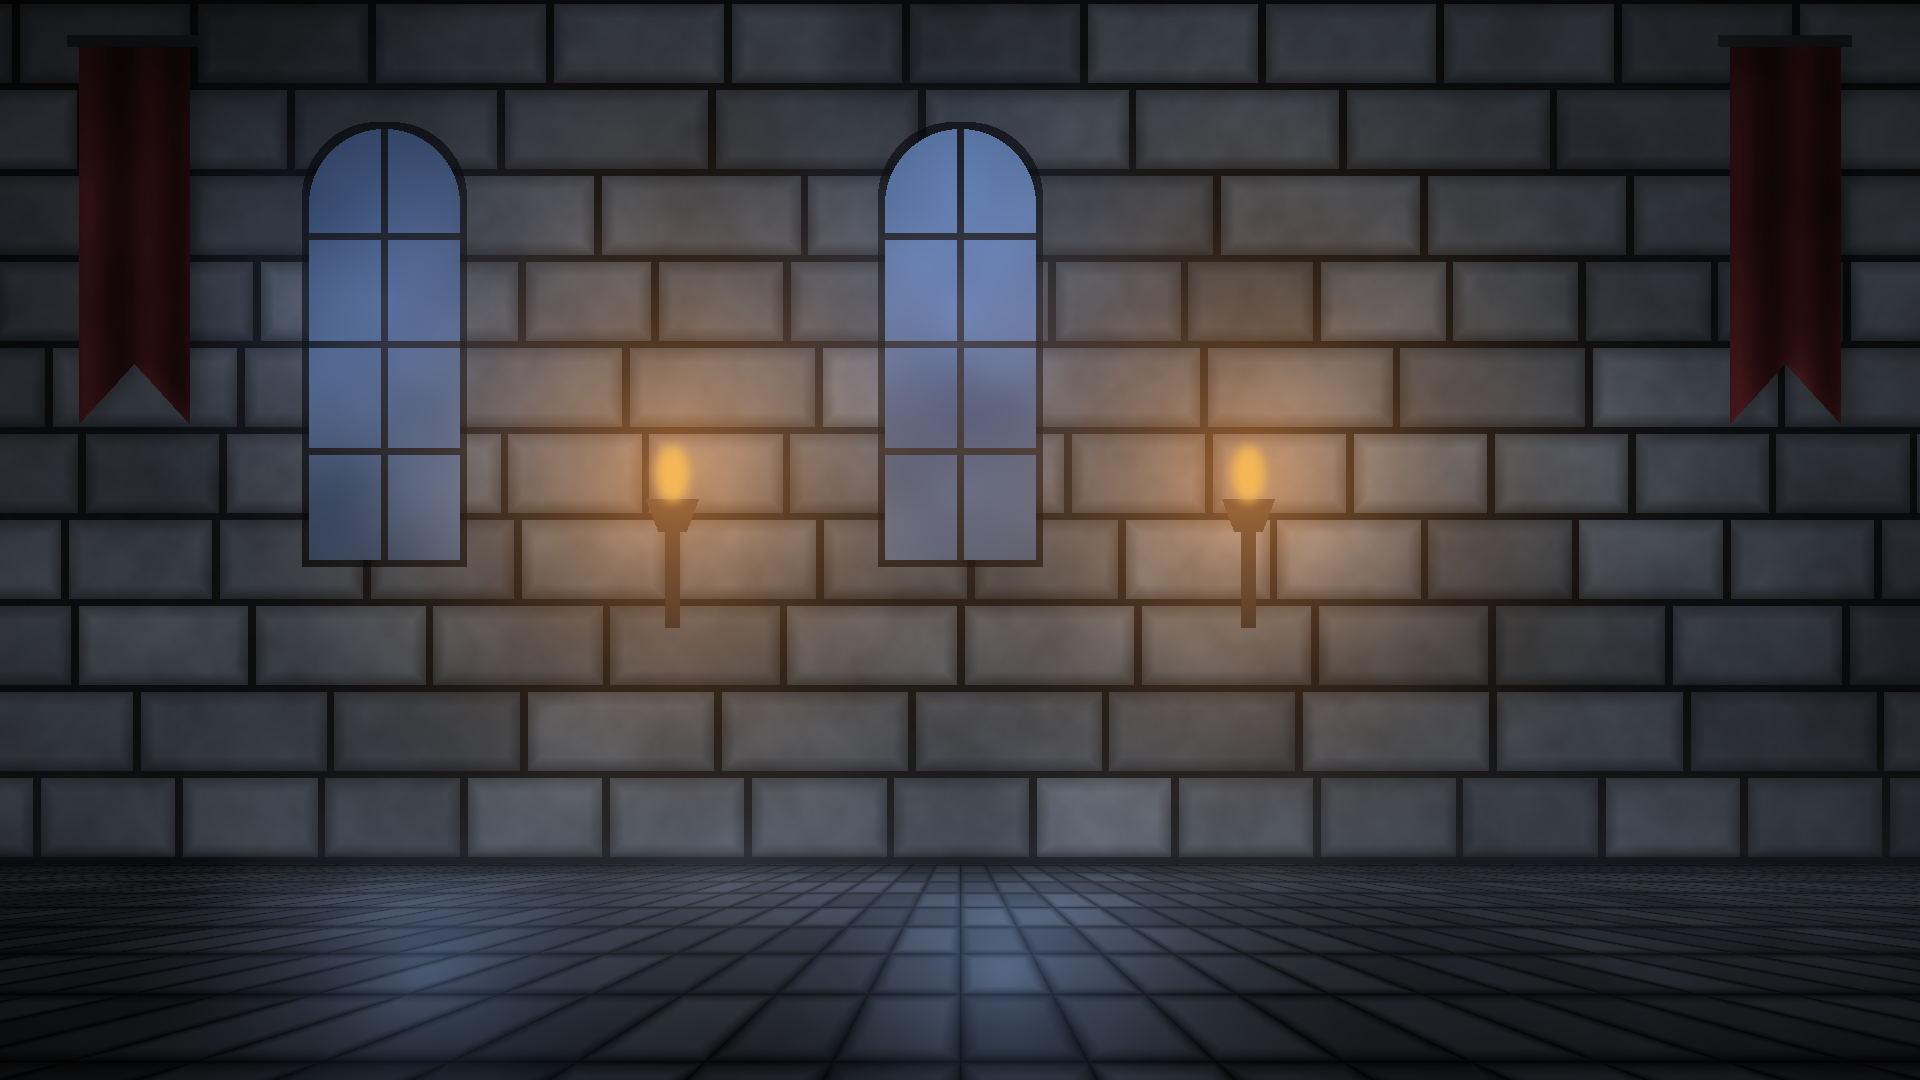
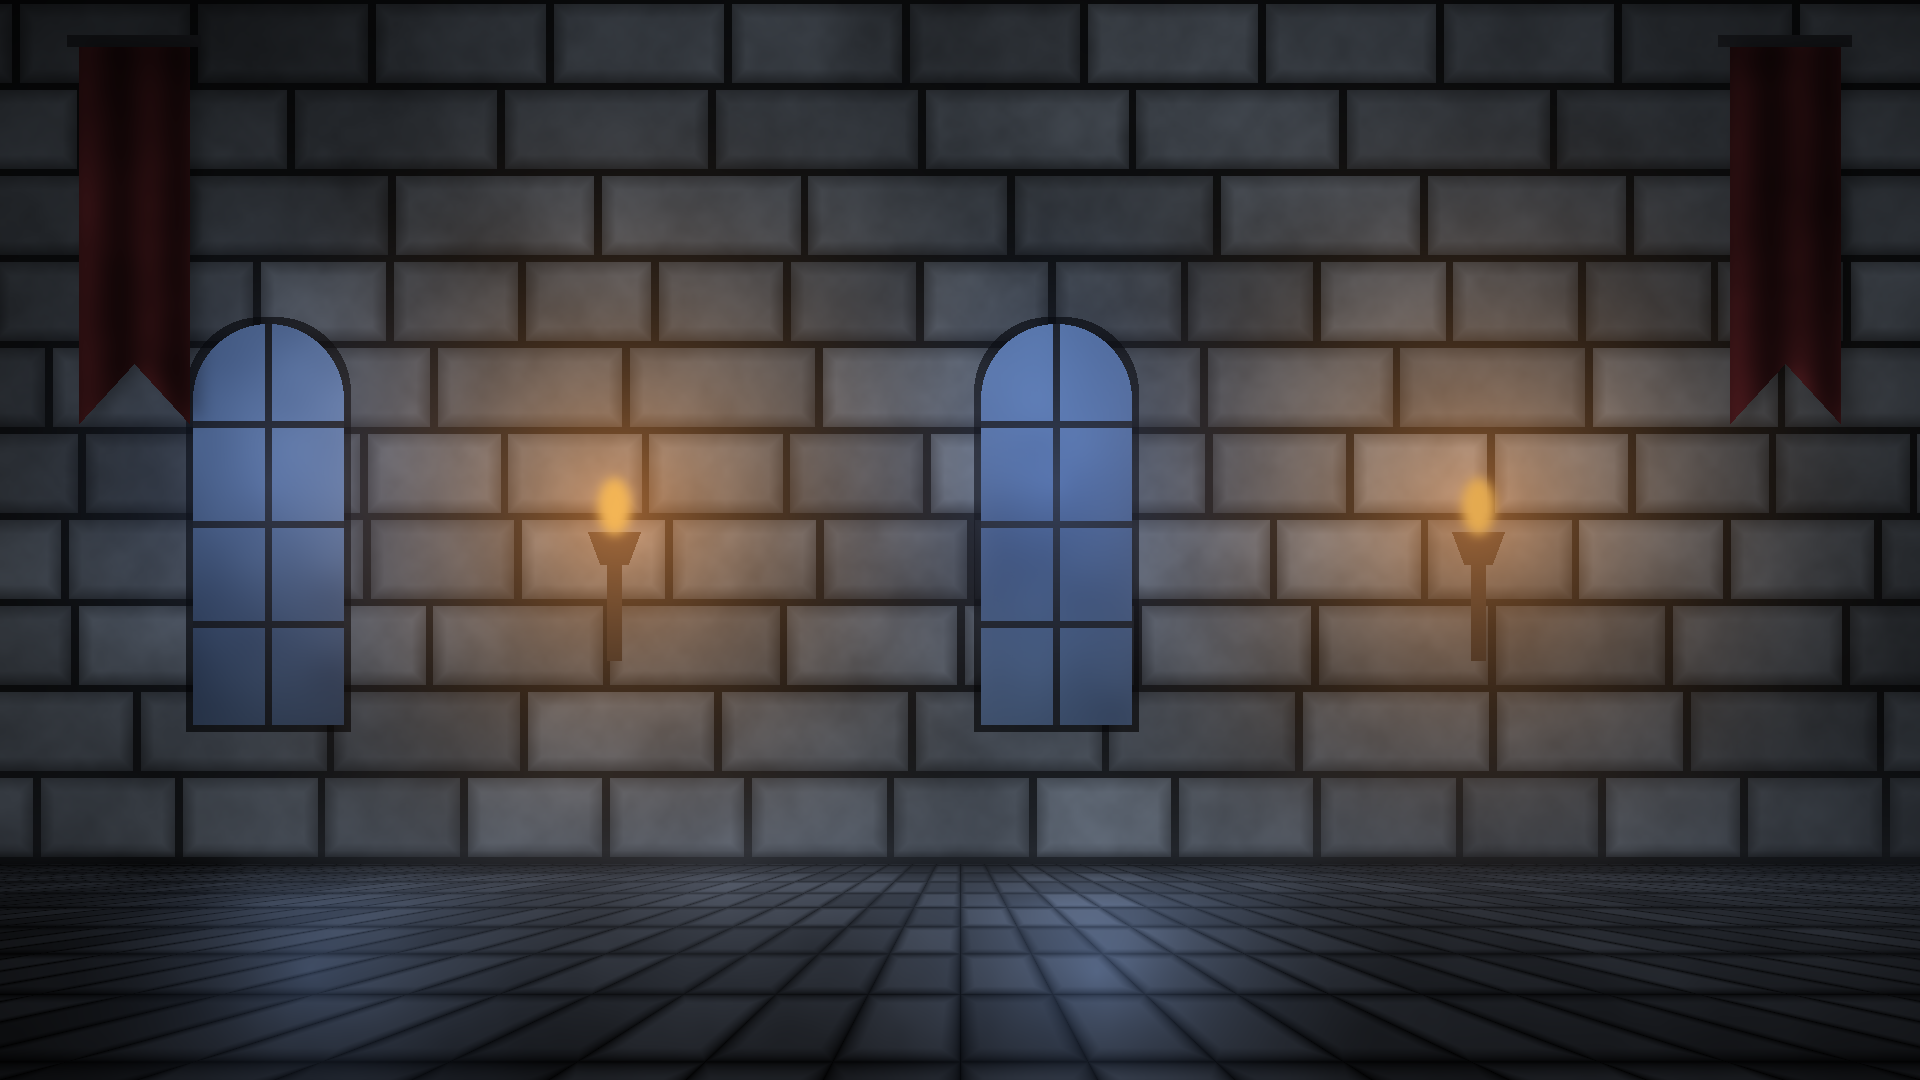
성 테마 시작 화면: 창·횃불을 제목 판 아래로 내리고 메뉴 틀 성가퀴 네모를 작은 쇠 장식으로(축소 때 검은 줄 방지) + 합성 시안 도구

diff --git a/Tools/ui/gen_castle_lobby.py b/Tools/ui/gen_castle_lobby.py
@@ -37,7 +37,7 @@ def menu_frame():
         d = ImageDraw.Draw(band)
         for i in range(8):
             x = 48 + i * 52
-            d.rectangle([x, 54 if not flip else 66, x + 28, 112 if not flip else 124], fill=255)
+            d.ellipse([x + 8, (74 if not flip else 86), x + 24, (90 if not flip else 102)], fill=255)   # 작은 둥근 쇠 장식(성가퀴 네모는 축소 때 검은 줄로 보였다)
         m = np.asarray(band, np.float32) / 255
         if flip: m = m[::-1]
         m = m if not flip else m[::-1][::-1]
@@ -134,9 +134,9 @@ def background(w, h, seed=41):
     base = np.clip(1 - np.abs(yy - floor_y) / (14 * s), 0, 1)[..., None]
     img = img * (1 - 0.6 * base)
     # 아치 창 두 개
-    for cx in (int(w * 0.20), int(w * 0.50)):
-        ww, wh = int(150 * s), int(430 * s)
-        top = int(h * 0.12)
+    for cx in (int(w * 0.14), int(w * 0.55)):
+        ww, wh = int(150 * s), int(400 * s)
+        top = int(h * 0.30)
         win = Image.new("L", (w, h), 0)
         d = ImageDraw.Draw(win)
         d.rectangle([cx - ww // 2, top + ww // 2, cx + ww // 2, top + wh], fill=255)
@@ -159,7 +159,7 @@ def background(w, h, seed=41):
         # 창 둘레 빛 번짐
         img += radial_glow(h, w, cx, top + wh * 0.4, 320 * s, (28, 38, 60), 1.6)
     # 횃불 두 개(따뜻한 주황 — 이 장면의 유일한 따뜻한 색)
-    for tx, ty in ((int(w * 0.35), int(h * 0.47)), (int(w * 0.65), int(h * 0.47))):
+    for tx, ty in ((int(w * 0.32), int(h * 0.50)), (int(w * 0.77), int(h * 0.50))):
         bracket = Image.new("L", (w, h), 0)
         bd = ImageDraw.Draw(bracket)
         bd.rectangle([tx - int(7 * s), ty, tx + int(7 * s), ty + int(120 * s)], fill=255)

diff --git a/Tools/ui/mock_lobby.py b/Tools/ui/mock_lobby.py
@@ -1,0 +1,24 @@
+"""시작 화면 합성 시안(에디터 없이 레이아웃 근사): 배경 + 제목 판 + 메뉴 틀 + 단추 4. 사용: mock_lobby.py <Lobby 폴더> <출력 png> <글자색 r,g,b>"""
+import sys, os
+from PIL import Image, ImageDraw, ImageFont
+d, out, col = sys.argv[1], sys.argv[2], tuple(int(x) for x in sys.argv[3].split(","))
+L = lambda n: Image.open(os.path.join(d, n)).convert("RGBA")
+bg = L("bg_1920x1080.png")
+plate = L("title_plate.png").resize((984, 211))
+bg.alpha_composite(plate, (636 - 492, 136 - 105))
+fr = L("menu_frame.png").resize((480, 912))
+fx, fy = 1920 - 324 - 240, 540 + 24 - 456
+bg.alpha_composite(fr, (fx, fy))
+btn = L("btn_normal.png").resize((348, 84))
+try: f = ImageFont.truetype("/System/Library/Fonts/AppleSDGothicNeo.ttc", 38, index=6)
+except Exception: f = ImageFont.load_default()
+for i, t in enumerate(["혼자 하기", "같이 하기", "세이브 코드 불러오기", "설정"]):
+    y = fy + 250 + i * 110
+    bg.alpha_composite(btn, (fx + 66, y))
+    dr = ImageDraw.Draw(bg); w = dr.textlength(t, font=f)
+    dr.text((fx + 66 + (348 - w) / 2, y + 20), t, font=f, fill=col)
+dr = ImageDraw.Draw(bg)
+try: tf = ImageFont.truetype("/System/Library/Fonts/Supplemental/Papyrus.ttc", 96)
+except Exception: tf = ImageFont.load_default()
+dr.text((636 - dr.textlength("G.R.D", font=tf) / 2, 136 - 58), "G.R.D", font=tf, fill=col)
+bg.convert("RGB").save(out)
